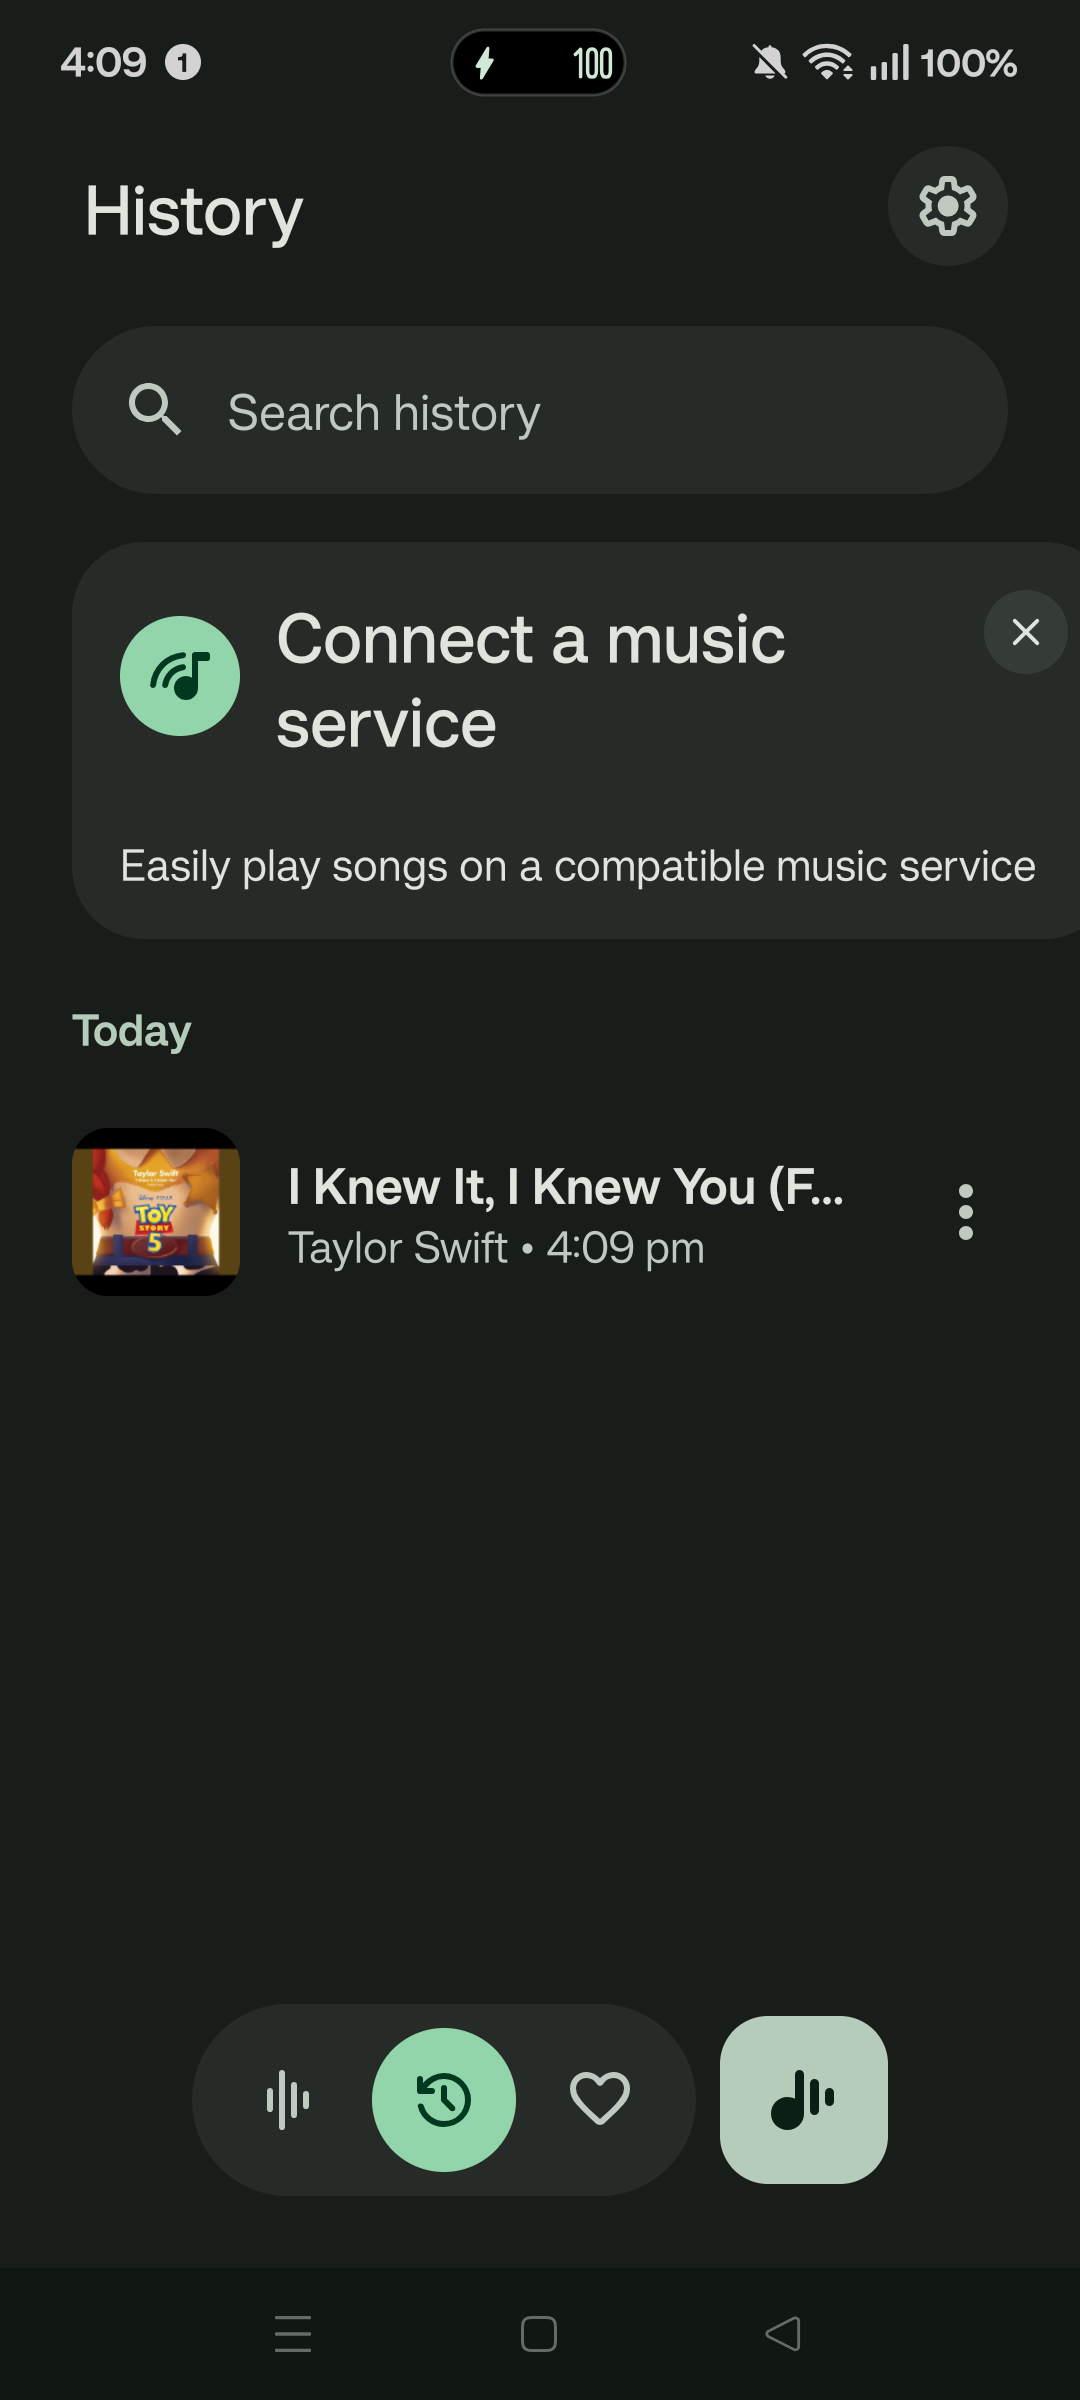
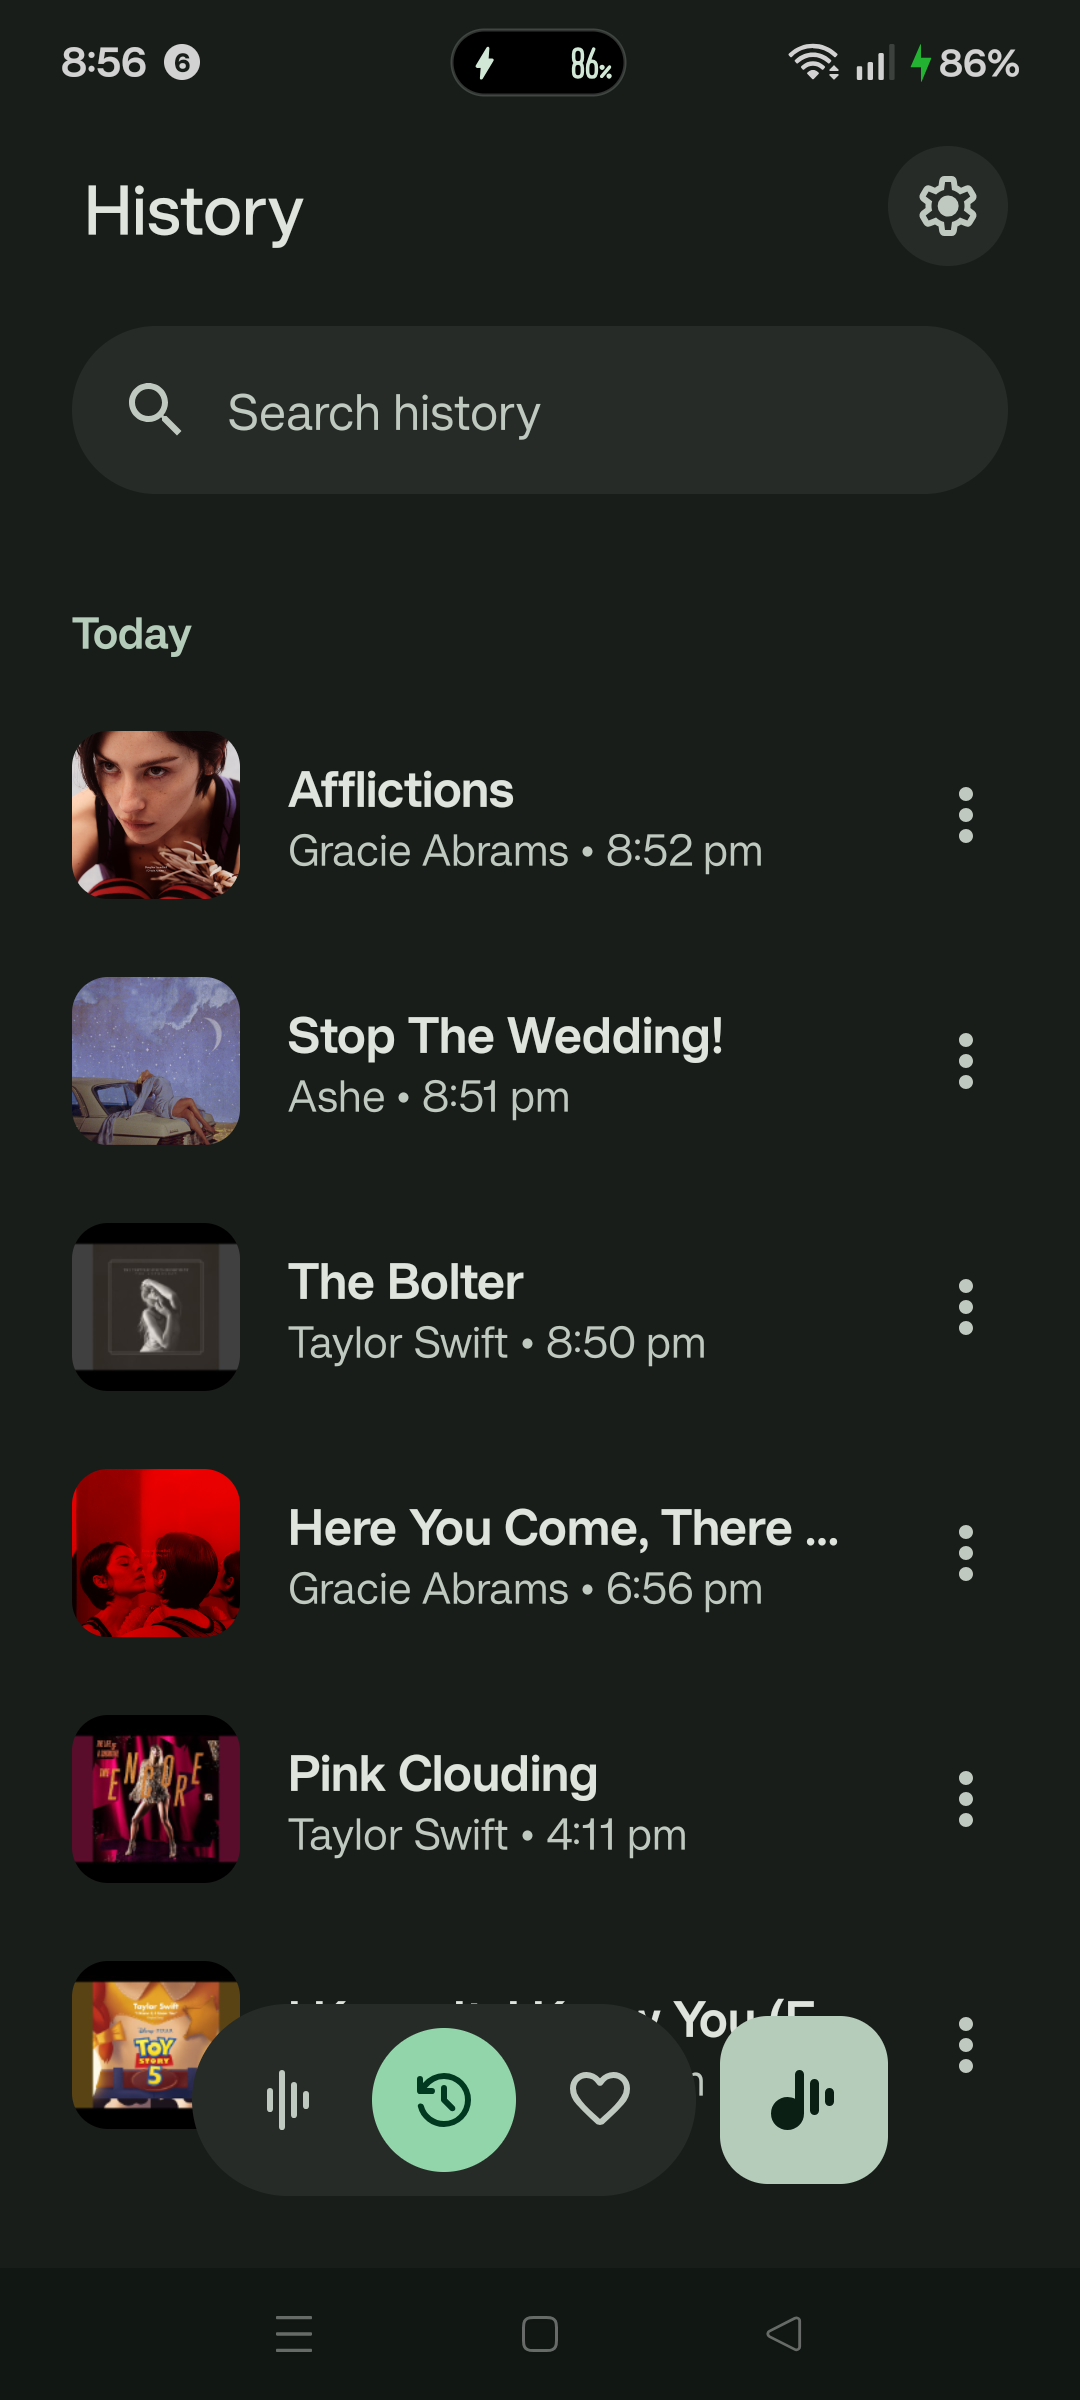
Update screenshots: Full Song History list and Liked/Favourites view

diff --git a/README.md b/README.md
@@ -66,15 +66,15 @@ However, if you download the stock APK from APKMirror on a non-Pixel phone (Sams
     <tr>
       <td align="center"><b>🏠 2026 Expressive Home</b></td>
       <td align="center"><b>🕒 Song History & Album Art</b></td>
-      <td align="center"><b>⚙ Settings & Music Service</b></td>
+      <td align="center"><b>❤ Liked / Favourites View</b></td>
     </tr>
     <tr>
       <td><img src="assets/screenshot_home.png" alt="Now Playing 2026 Home Screen" width="260" /></td>
       <td><img src="assets/screenshot_history.png" alt="Now Playing Song History" width="260" /></td>
-      <td><img src="assets/screenshot_settings.png" alt="Now Playing Settings" width="260" /></td>
+      <td><img src="assets/screenshot_favorites.png" alt="Now Playing Favourites" width="260" /></td>
     </tr>
   </table>
-  <p><i>Official 2026 Google Pixel Material 3 Expressive UI recognizing songs, fetching album cover art, saving to History, and connecting to Apple Music / Spotify / YouTube Music on a non-Pixel phone (Realme / ColorOS).</i></p>
+  <p><i>Official 2026 Google Pixel Material 3 Expressive UI recognizing songs, fetching album cover art, saving to History, and managing Favourites on a non-Pixel phone (Realme / ColorOS).</i></p>
 </div>
 
 ---
